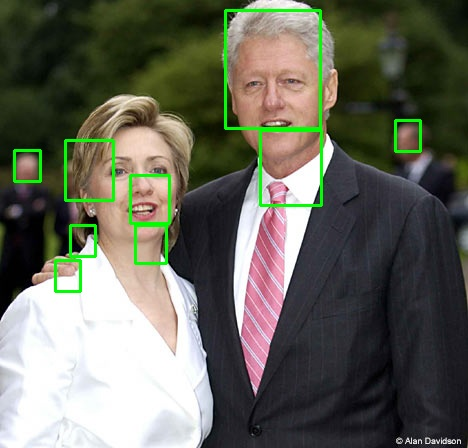
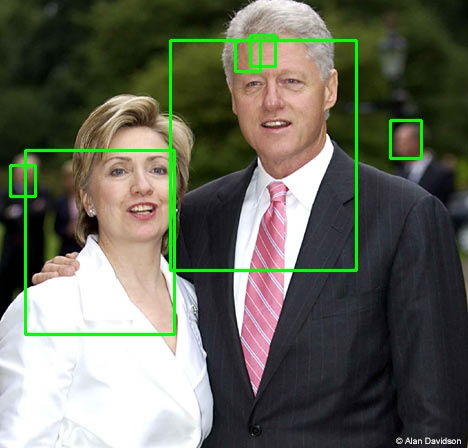
Big box time

Changed region(s): [[0.0, 0.0, 0.7778, 0.75], [0.0897, 0.5, 0.2094, 0.6562], [0.8077, 0.25, 0.9274, 0.375]]

diff --git a/nms.py b/nms.py
@@ -38,85 +38,77 @@ def prepare_boxes(boxes, scores, labels):
 
 def cpu_soft_nms_float(dets, sc, Nt, sigma, thresh, method):
     """
-    Based on: https://github.com/DocF/Soft-NMS/blob/master/soft_nms.py
-    It's different from original soft-NMS because we have float coordinates on range [0; 1]
+    Soft-NMS implementation that favors larger boxes.
 
     :param dets:   boxes format [x1, y1, x2, y2]
     :param sc:     scores for boxes
-    :param Nt:     required iou 
-    :param sigma:  
-    :param thresh: 
-    :param method: 1 - linear soft-NMS, 2 - gaussian soft-NMS, 3 - standard NMS
-    :return: index of boxes to keep
+    :param Nt:     required IoU
+    :param sigma:  Gaussian sigma for Soft-NMS
+    :param thresh: score threshold for keeping boxes
+    :param method: 1 - linear, 2 - gaussian, 3 - original NMS
+    :return: indices of boxes to keep
     """
 
-    # indexes concatenate boxes with the last column
     N = dets.shape[0]
     indexes = np.array([np.arange(N)])
     dets = np.concatenate((dets, indexes.T), axis=1)
 
-    # the order of boxes coordinate is [y1, x1, y2, x2]
-    y1 = dets[:, 1]
-    x1 = dets[:, 0]
-    y2 = dets[:, 3]
-    x2 = dets[:, 2]
-    scores = sc
-    areas = (x2 - x1) * (y2 - y1)
+    # Compute the area of each box
+    areas = (dets[:, 2] - dets[:, 0]) * (dets[:, 3] - dets[:, 1])
 
-    for i in range(N):
-        # intermediate parameters for later parameters exchange
-        tBD = dets[i, :].copy()
-        tscore = scores[i].copy()
-        tarea = areas[i].copy()
-        pos = i + 1
+    keep = []
+    while dets.shape[0] > 0:
+        # Take the box with the highest score
+        max_score_index = np.argmax(dets[:, 4])
+        max_score_det = dets[max_score_index]
+        max_score_area = areas[max_score_index]
+        keep.append(max_score_det[-1])
 
-        #
-        if i != N - 1:
-            maxscore = np.max(scores[pos:], axis=0)
-            maxpos = np.argmax(scores[pos:], axis=0)
-        else:
-            maxscore = scores[-1]
-            maxpos = 0
-        if tscore < maxscore:
-            dets[i, :] = dets[maxpos + i + 1, :]
-            dets[maxpos + i + 1, :] = tBD
-            tBD = dets[i, :]
-
-            scores[i] = scores[maxpos + i + 1]
-            scores[maxpos + i + 1] = tscore
-            tscore = scores[i]
-
-            areas[i] = areas[maxpos + i + 1]
-            areas[maxpos + i + 1] = tarea
-            tarea = areas[i]
-
-        # IoU calculate
-        xx1 = np.maximum(dets[i, 1], dets[pos:, 1])
-        yy1 = np.maximum(dets[i, 0], dets[pos:, 0])
-        xx2 = np.minimum(dets[i, 3], dets[pos:, 3])
-        yy2 = np.minimum(dets[i, 2], dets[pos:, 2])
+        # Compute IoU of the remaining boxes with the max score box
+        xx1 = np.maximum(dets[:, 0], max_score_det[0])
+        yy1 = np.maximum(dets[:, 1], max_score_det[1])
+        xx2 = np.minimum(dets[:, 2], max_score_det[2])
+        yy2 = np.minimum(dets[:, 3], max_score_det[3])
 
         w = np.maximum(0.0, xx2 - xx1)
         h = np.maximum(0.0, yy2 - yy1)
         inter = w * h
-        ovr = inter / (areas[i] + areas[pos:] - inter)
+        ovr = inter / (areas + max_score_area - inter)
 
-        # Three methods: 1.linear 2.gaussian 3.original NMS
-        if method == 1:  # linear
-            weight = np.ones(ovr.shape)
-            weight[ovr > Nt] = weight[ovr > Nt] - ovr[ovr > Nt]
-        elif method == 2:  # gaussian
-            weight = np.exp(-(ovr * ovr) / sigma)
-        else:  # original NMS
-            weight = np.ones(ovr.shape)
-            weight[ovr > Nt] = 0
+        # Suppress boxes that overlap significantly with the max score box
+        if method == 1:
+            # Linear decay on the scores of overlapping boxes
+            weights = np.ones(dets.shape[0])
+            weights[ovr > Nt] -= ovr[ovr > Nt]
+        elif method == 2:
+            # Gaussian decay on the scores of overlapping boxes
+            weights = np.exp(-((ovr * ovr) / sigma))
+        else:
+            # Original NMS
+            weights = (ovr <= Nt).astype(float)
 
-        scores[pos:] = weight * scores[pos:]
+        # Make sure 'weights' is a floating-point array
+        weights = weights.astype(np.float64)
 
-    # select the boxes and keep the corresponding indexes
-    inds = dets[:, 4][scores > thresh]
-    keep = inds.astype(int)
+        # Perform the multiplication
+        dets[:, 4] = dets[:, 4] * weights
+
+
+        #ADDED MAY COMMENT OUT LATER
+        # Favor larger boxes by comparing the area
+        larger_boxes = np.where((ovr > Nt) & (areas > max_score_area))[0]
+        if larger_boxes.size > 0:
+            dets[max_score_index, 4] = 0  # Suppress the current max score box
+            dets[larger_boxes, 4] = sc[larger_boxes]  # Restore the original scores for larger boxes
+
+
+        # Keep boxes with a score above the threshold
+        remaining_indices = np.where(dets[:, 4] > thresh)[0]
+        dets = dets[remaining_indices]
+        areas = areas[remaining_indices]
+
     return keep
+
 
 
 

diff --git a/test2.py b/test2.py
@@ -234,10 +234,10 @@ def detect_faces_cascade(image, cascade, scale_factor=1.25, step_size=5, overlap
         # Parameters for NMS
 
         print("detected_faces before return:", detected_faces)
-        overlapThresh = 0.000000000001
-        sigma = 0.2
-        min_score = 0.9
-        method = "gaussian soft-NMS"
+        # overlapThresh = 0.000001
+        # sigma = 0.5
+        # min_score = 0.93
+        # method = "gaussian soft-NMS"
 
         # Apply NMS
         num_predictions = len(detected_scores)
@@ -262,8 +262,10 @@ def detect_faces_cascade(image, cascade, scale_factor=1.25, step_size=5, overlap
         normalized_boxesyay = np.array(normalize_boxes(detected_faces, w, h))
         result_boxes, result_scores, result_labels = prepare_boxes(normalized_boxesyay, detected_scores, predicted_labels)
         
-        keep_indices  = nms_float_fast(result_boxes, detected_scores, overlapThresh)
-
+        #keep_indices  = cpu_soft_nms_float(result_boxes, detected_scores, overlapThresh)
+        keep_indices = cpu_soft_nms_float(result_boxes, detected_scores, Nt=0.012, sigma=0.08, thresh=0.15, method=3)
+        print("keep_indices:", keep_indices)  # Add this line to debug
+        keep_indices = np.array(keep_indices).astype(int)  # Convert to an integer array
         filtered_boxes = result_boxes[keep_indices]
         # Denormalize boxes for drawing
         final_boxes = []
